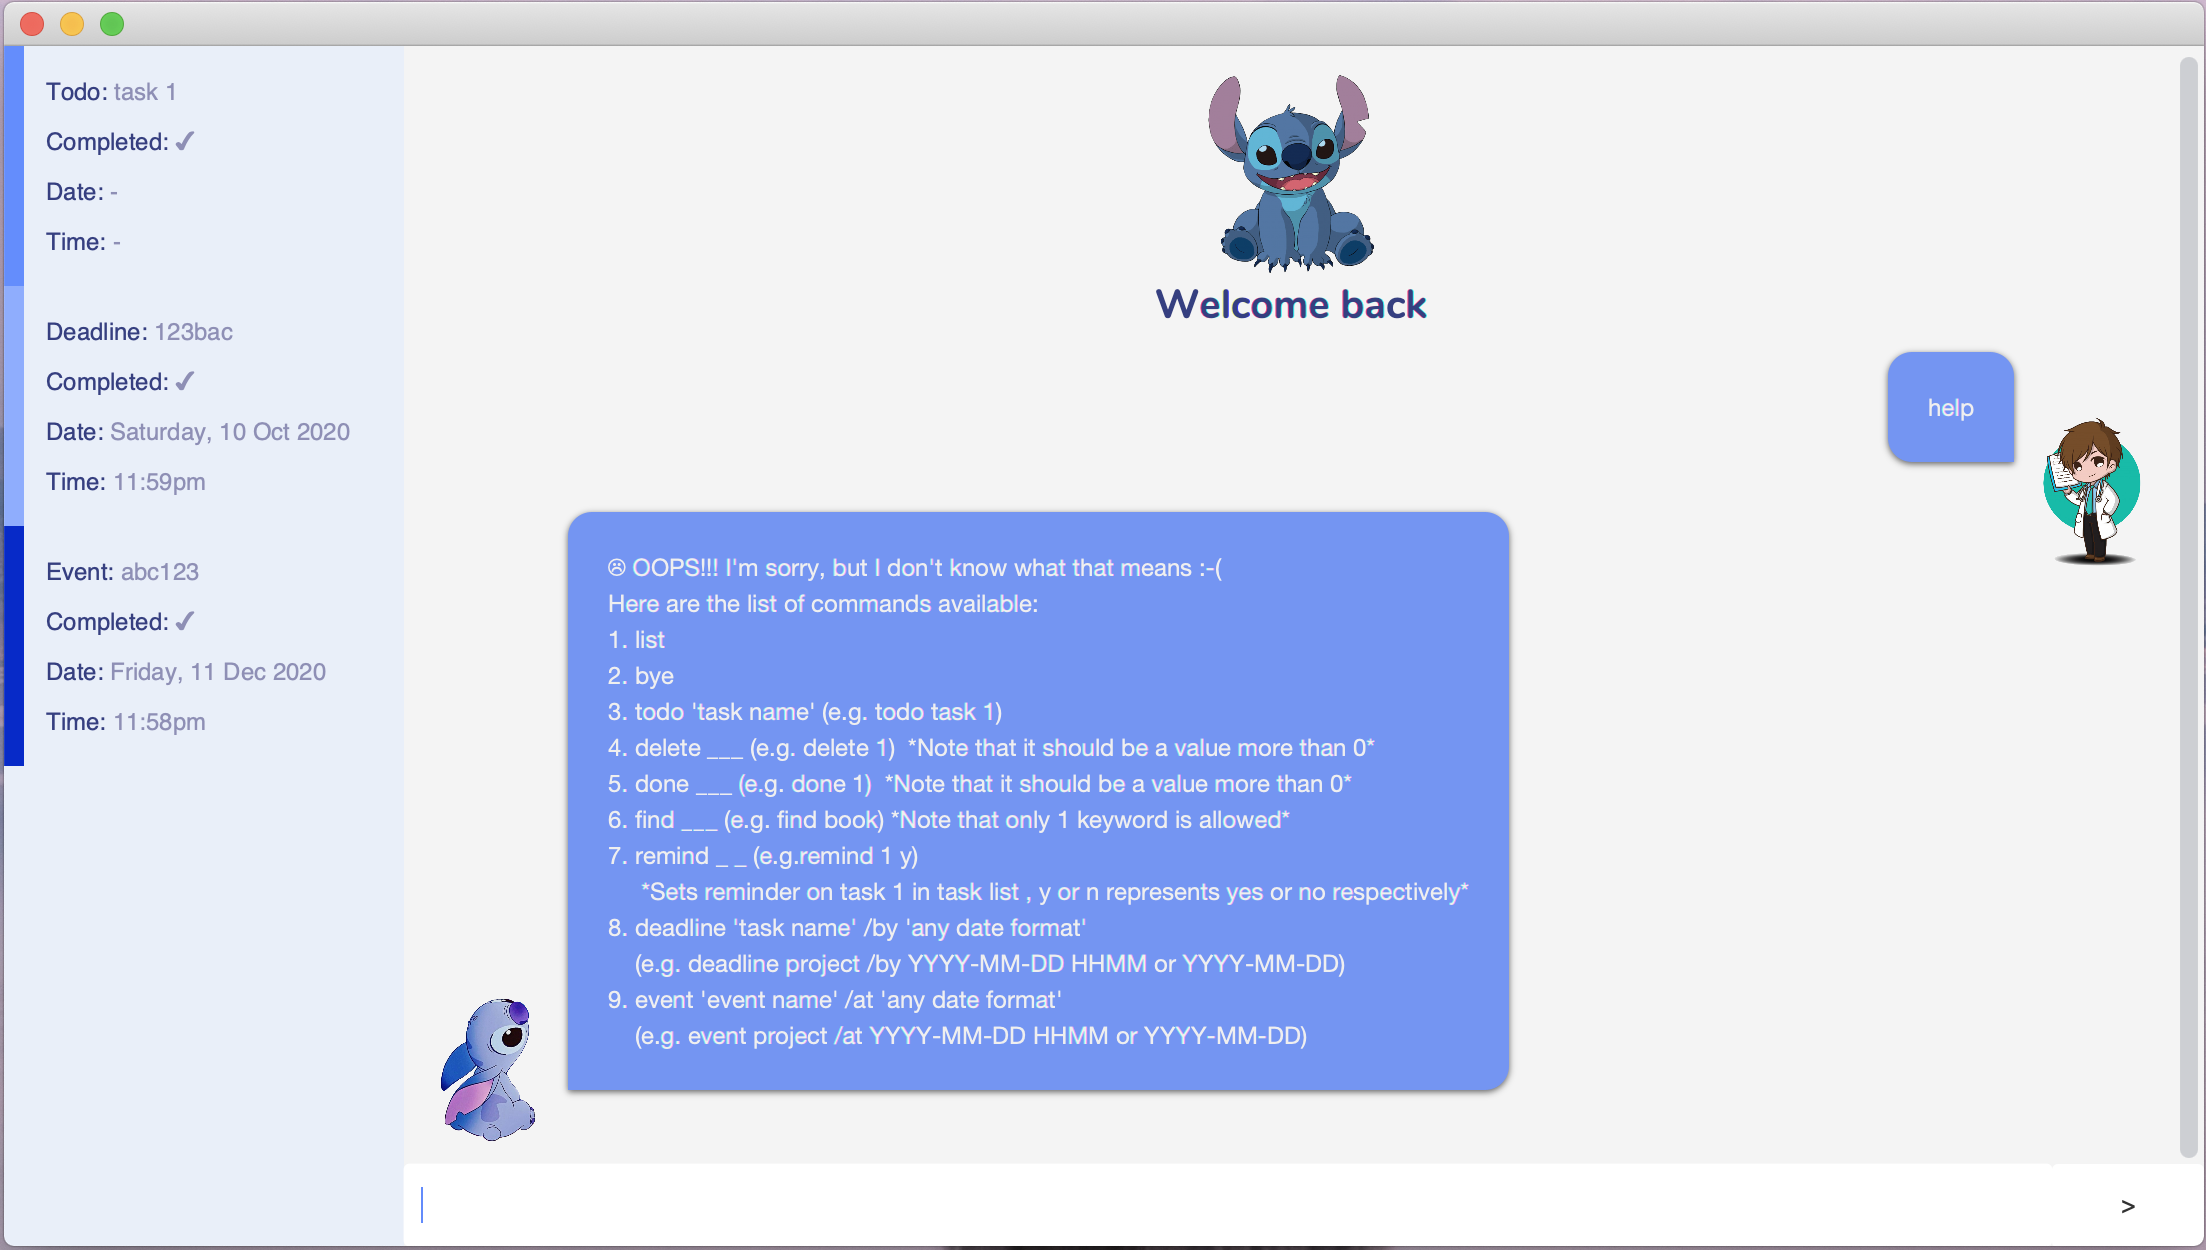
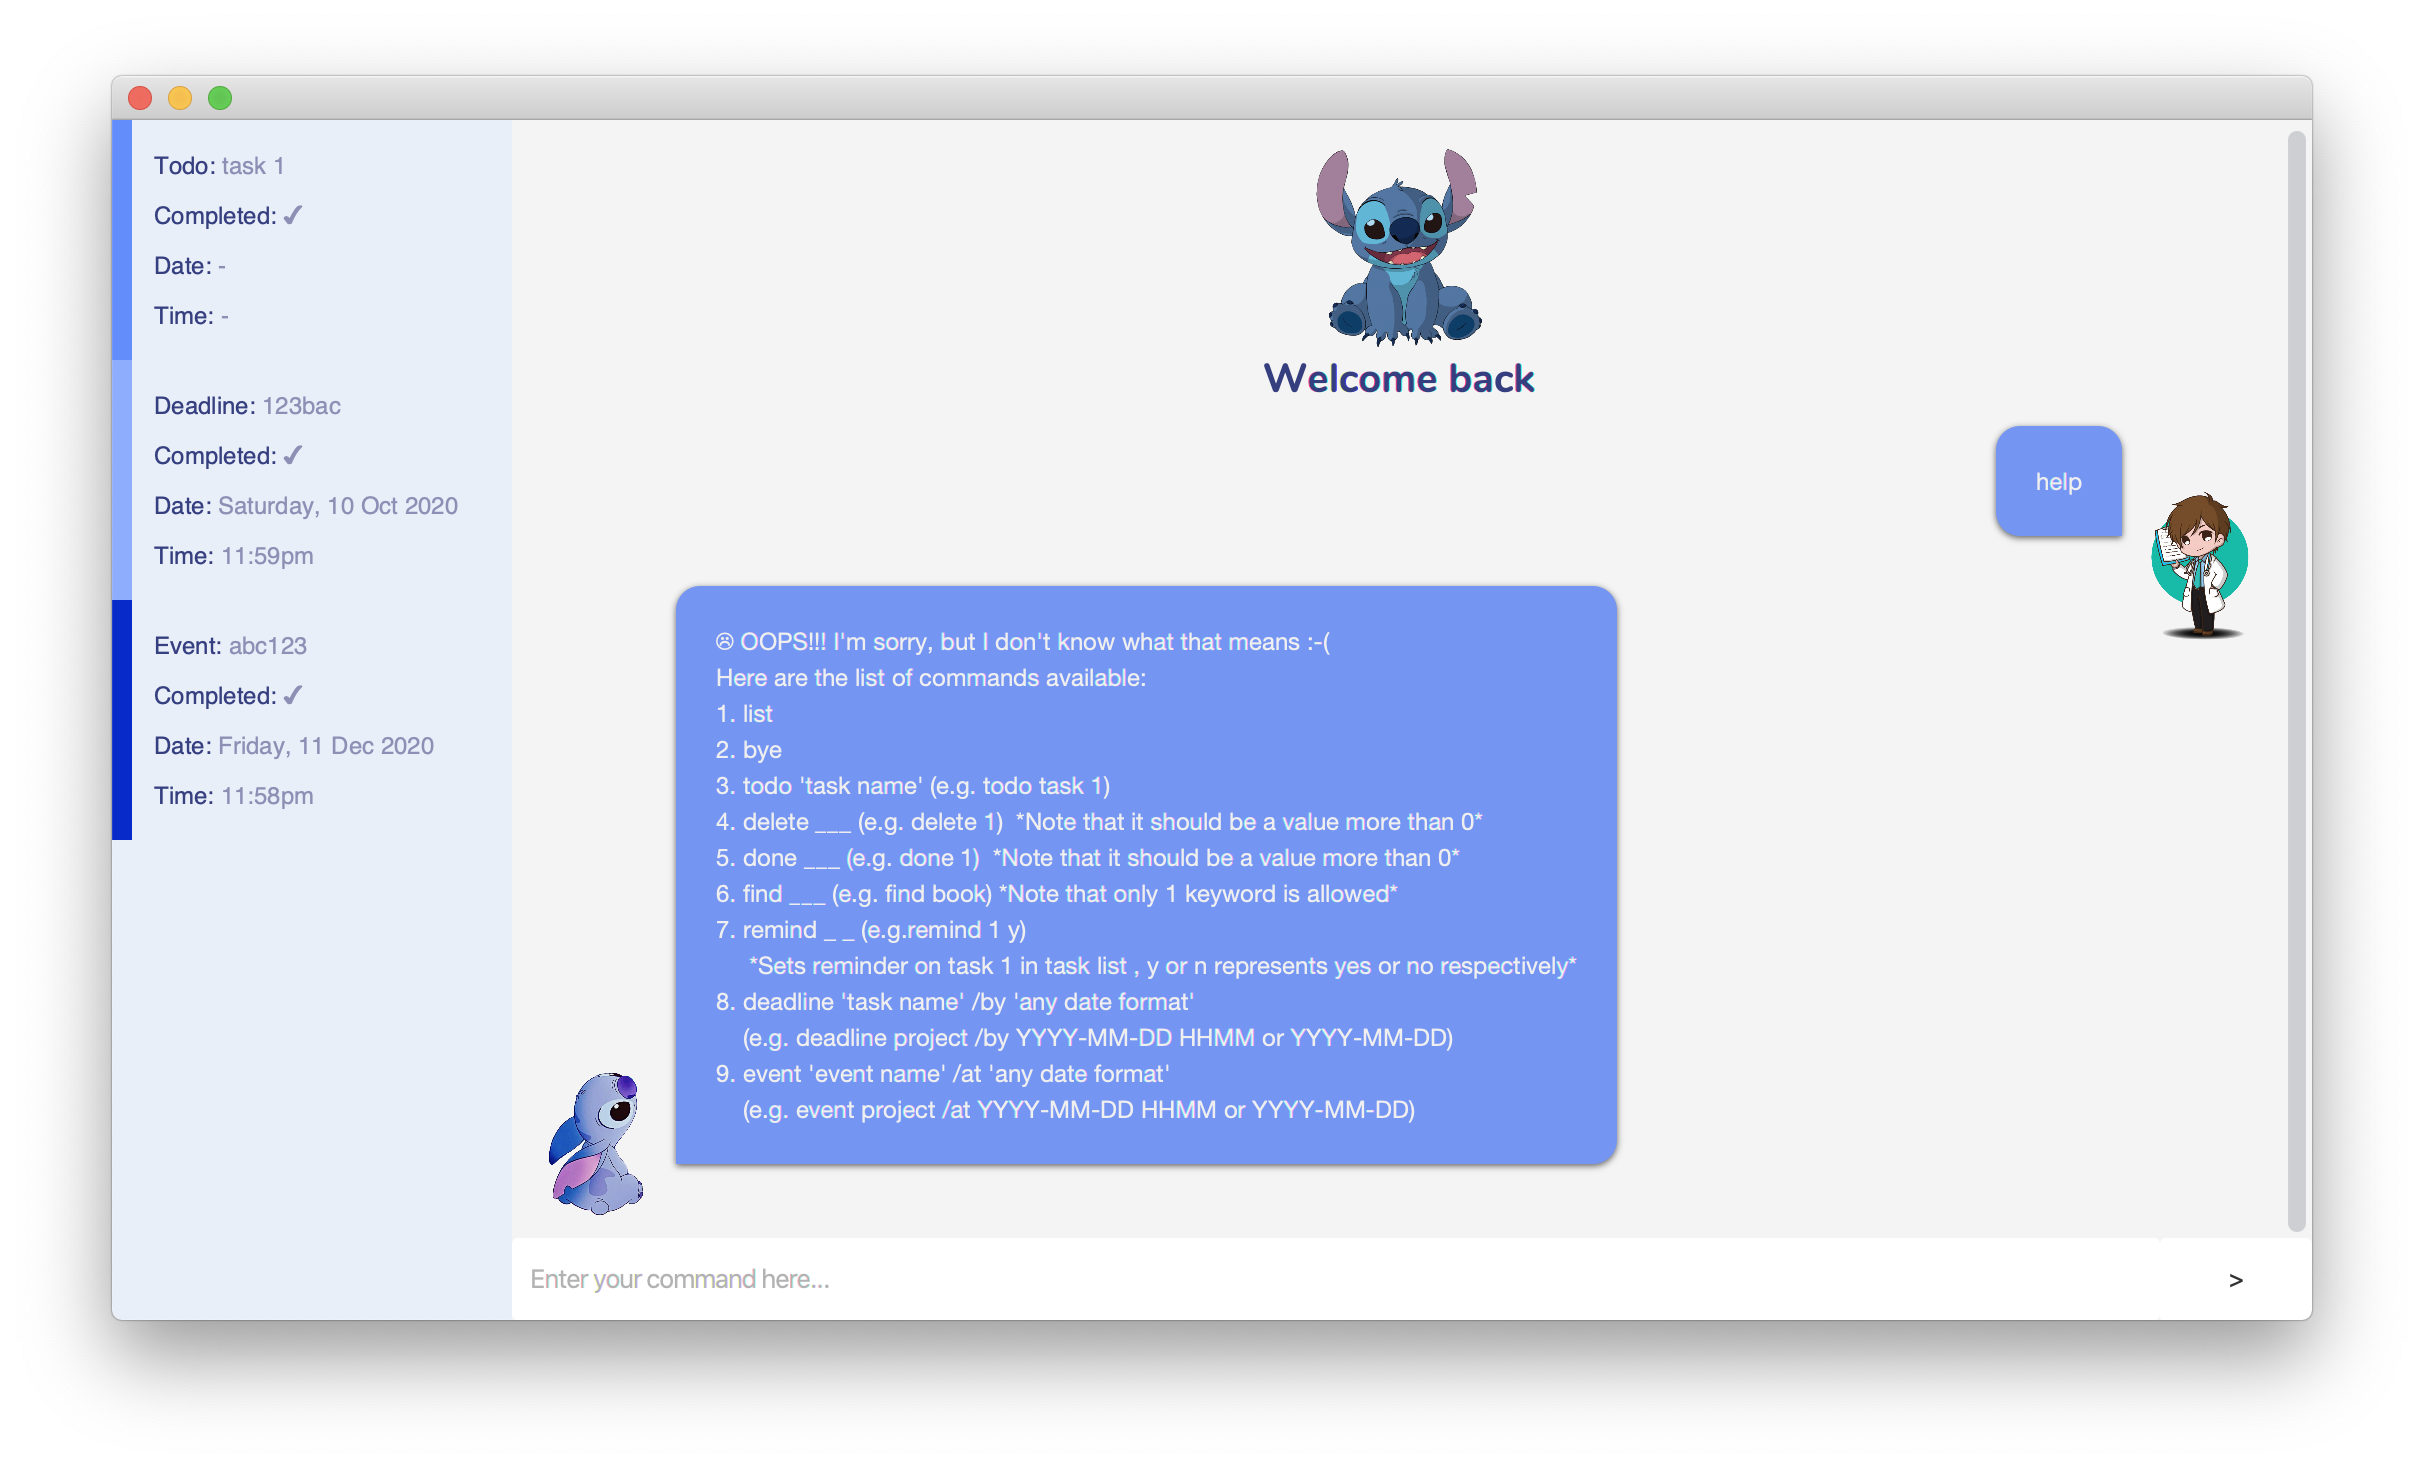
Replace README image

Changed region(s): [[0.0, 0.0, 1.0, 0.9672], [0.0, 0.9672, 1.0, 1.0]]

diff --git a/src/main/java/duke/util/Keyword.java b/src/main/java/duke/util/Keyword.java
@@ -45,7 +45,6 @@ public class Keyword {
     public static final String KEYWORD_DELETE_NOTIFICATION = "Noted. I've removed this task:";
     public static final String KEYWORD_DONE_INVALID_INPUT = "Invalid input for done";
     public static final String KEYWORD_FIND_SUCCESS = "Here are the matching tasks in your list:";
-    public static final String KEYWORD_HELP_UNSURE = "☹ OOPS!!! I'm sorry, but I don't know what that means :-(\n";
     public static final String KEYWORD_HELP_DISPLAY_MESSAGE = "Here are the list of commands available:\n";
     public static final String KEYWORD_HELP_LIST = "1. list\n";
     public static final String KEYWORD_HELP_BYE = "2. bye\n";
@@ -57,7 +56,7 @@ public class Keyword {
     public static final String KEYWORD_HELP_FIND = "6. find ___ (e.g. find book) "
             + "*Note that only 1 keyword is allowed*\n";
     public static final String KEYWORD_HELP_REMIND = "7. remind _ _ (e.g.remind 1 y)" + "\n" + KEYWORD_EXTRA_SPACE
-            + " *Sets reminder on task 1 in task list , y or n represents yes or no respectively*\n";
+            + " *Sets reminder on task 1 in task list, y or n represents yes or no respectively*\n";
     public static final String KEYWORD_HELP_DEADLINE = "8. deadline \'task name\' /by \'any date format\' " + "\n"
             + KEYWORD_EXTRA_SPACE + "(e.g. deadline project /by YYYY-MM-DD HHMM or YYYY-MM-DD)\n";
     public static final String KEYWORD_HELP_EVENT = "9. event \'event name\' /at \'any date format\' " + "\n"
@@ -88,6 +87,6 @@ public class Keyword {
             + "(Note: There should not be anything behind list)";
     public static final String KEYWORD_REMINDER_EXCEPTION = " ☹ OOPS! A proper remind format would be like, "
             + "e.g. remind \'index in task list\' \'y or n\' ";
-    public static final String KEYWORD_UNKNOWN_COMMAND_EXCEPTION = "Sorry I don't know what that means. "
-            + "Type \"help\" to view the list of commands available";
+    public static final String KEYWORD_UNKNOWN_COMMAND_EXCEPTION = "☹ OOPS!!! I'm sorry, but I don't know what "
+            + "that means :-( Type \"help\" to view the list of commands available";
 }

diff --git a/src/main/java/duke/commands/HelpCommand.java b/src/main/java/duke/commands/HelpCommand.java
@@ -46,7 +46,7 @@ public class HelpCommand extends Command {
      * @return A list of commands available in Duke
      */
     private String getListOfCommands() {
-        return KEYWORD_HELP_UNSURE + KEYWORD_HELP_DISPLAY_MESSAGE + KEYWORD_HELP_LIST + KEYWORD_HELP_BYE
+        return KEYWORD_HELP_DISPLAY_MESSAGE + KEYWORD_HELP_LIST + KEYWORD_HELP_BYE
                 + KEYWORD_HELP_TODO + KEYWORD_HELP_DELETE + KEYWORD_HELP_DONE + KEYWORD_HELP_FIND
                 + KEYWORD_HELP_REMIND + KEYWORD_HELP_DEADLINE + KEYWORD_HELP_EVENT;
     }
